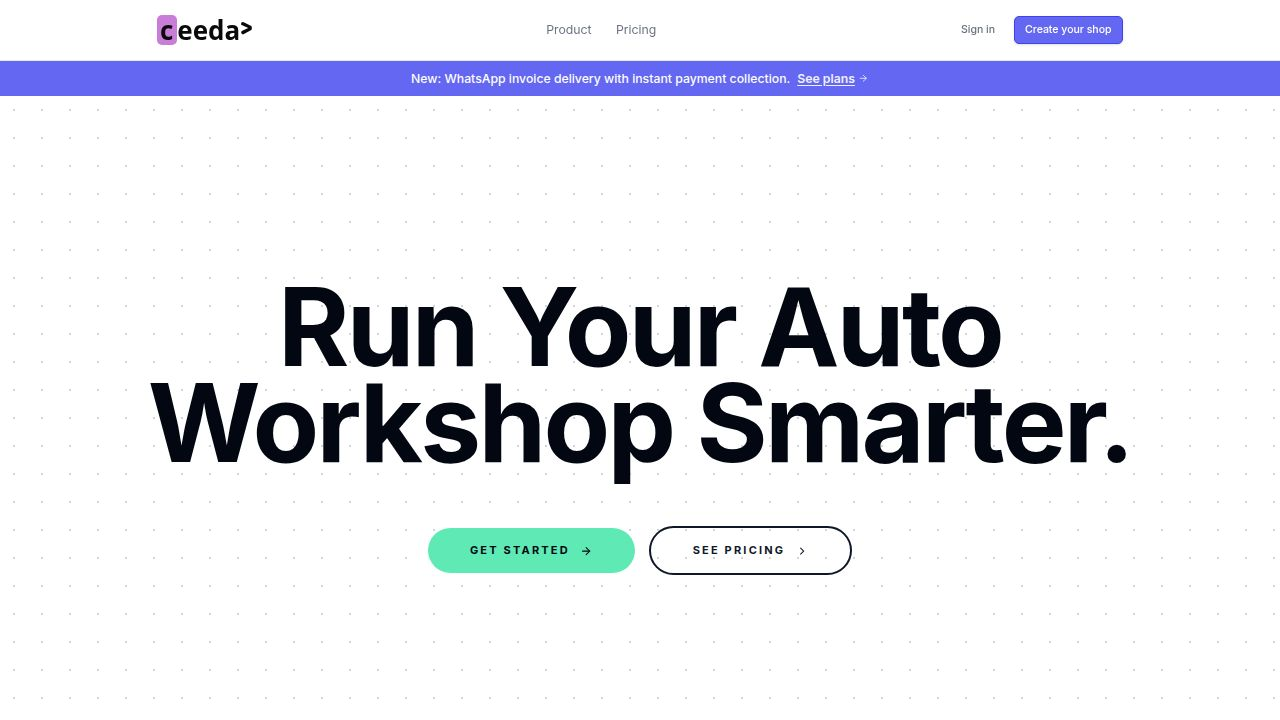
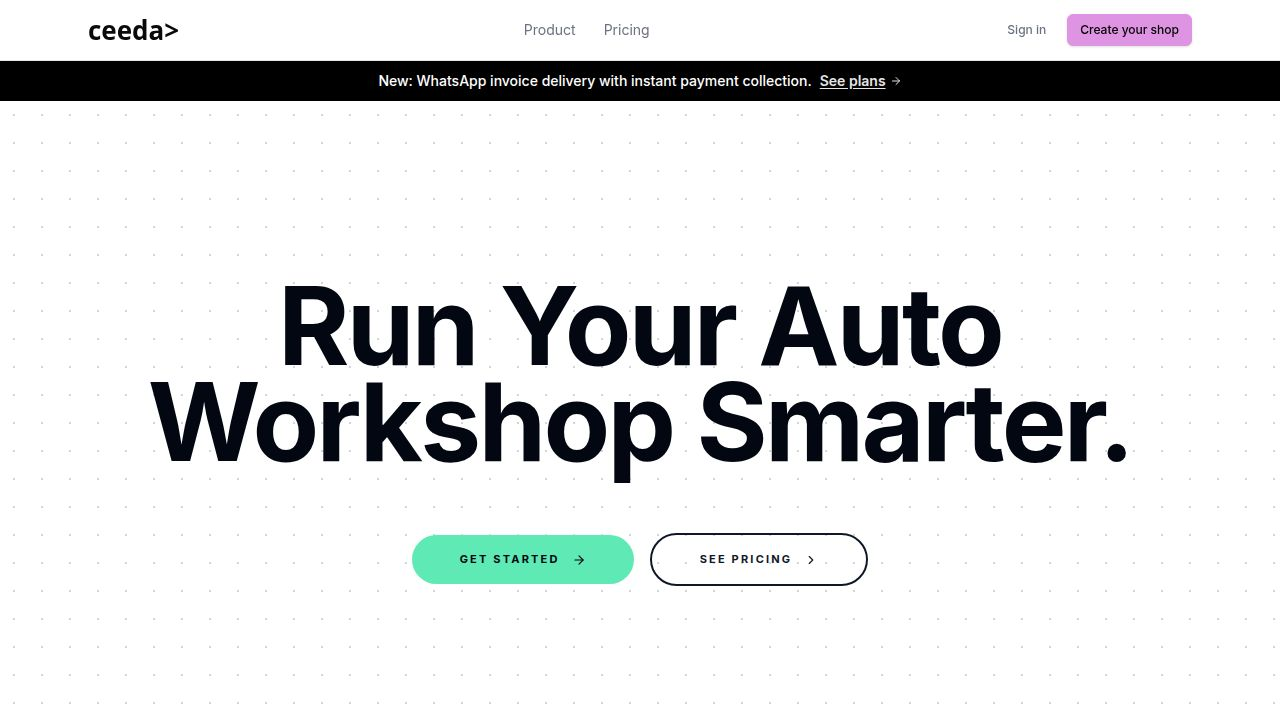
Add ability for users to cancel jobs and view cancellation details
Introduce a cancellation status for jobs, including a cancellation note field and UI elements for initiating and displaying cancellations on both the API and frontend.

Replit-Commit-Author: Agent
Replit-Commit-Session-Id: b4822e56-4291-4b2c-97be-9bfb5d0f3d70
Replit-Commit-Checkpoint-Type: full_checkpoint
Replit-Commit-Event-Id: c02d6131-0c34-4faf-a452-5d862d090419
Replit-Commit-Screenshot-Url: https://storage.googleapis.com/screenshot-production-us-central1/4fda2dd0-568b-452e-bd2f-ee95dd12a4de/b4822e56-4291-4b2c-97be-9bfb5d0f3d70/XZ1udKS
Replit-Helium-Checkpoint-Created: true

diff --git a/artifacts/web-app/src/pages/tenant/JobDetailPage.tsx b/artifacts/web-app/src/pages/tenant/JobDetailPage.tsx
@@ -18,7 +18,7 @@ import {
   Select, SelectContent, SelectItem, SelectTrigger, SelectValue,
 } from "@/components/ui/select";
 import {
-  Dialog, DialogContent, DialogHeader, DialogTitle, DialogFooter,
+  Dialog, DialogContent, DialogDescription, DialogHeader, DialogTitle, DialogFooter,
 } from "@/components/ui/dialog";
 import {
   DropdownMenu, DropdownMenuContent, DropdownMenuItem, DropdownMenuTrigger,
@@ -79,7 +79,7 @@ interface JobDetail {
   bay: string | null; started_at: string | null; completed_at: string | null; qc_at: string | null;
   mileage_in: string | null; mileage_out: string | null; scheduled_date: string | null;
   customer_concern: string | null; technician_note: string | null;
-  qc_note: string | null; internal_note: string | null;
+  qc_note: string | null; internal_note: string | null; cancellation_note: string | null;
   created_at: string; updated_at: string;
   client_id: string | null; client_name: string | null; client_phone: string | null; client_email: string | null;
   vehicle_id: string | null; plate_number: string | null; make: string | null; model: string | null;
@@ -471,6 +471,8 @@ export default function JobDetailPage({ moduleType, backPath = "/jobs", backLabe
   const [editOpen,       setEditOpen]       = useState(false);
   const [statusOpen,     setStatusOpen]     = useState(false);
   const [deleteOpen,     setDeleteOpen]     = useState(false);
+  const [cancelOpen,     setCancelOpen]     = useState(false);
+  const [cancelNote,     setCancelNote]     = useState("");
   const [assignOpen,     setAssignOpen]     = useState(false);
   const [showAddPart,       setShowAddPart]       = useState(false);
   const [showAddManualPart, setShowAddManualPart] = useState(false);
@@ -535,6 +537,24 @@ export default function JobDetailPage({ moduleType, backPath = "/jobs", backLabe
       navigate(backPath);
     },
     onError: () => toast.error("Failed to delete job"),
+  });
+
+  const cancelMutation = useMutation({
+    mutationFn: (note: string) =>
+      fetch(`${API}/api/jobs/${id}/status?tenant=${TENANT}`, {
+        method: "POST",
+        headers: { "Content-Type": "application/json" },
+        body: JSON.stringify({ status: "cancelled", cancellation_note: note || null }),
+      }).then(r => { if (!r.ok) throw new Error(); return r.json(); }),
+    onSuccess: () => {
+      qc.invalidateQueries({ queryKey: ["job", id] });
+      qc.invalidateQueries({ queryKey: ["jobs"] });
+      qc.invalidateQueries({ queryKey: ["jobs-kanban"] });
+      toast.success("Job cancelled");
+      setCancelOpen(false);
+      setCancelNote("");
+    },
+    onError: () => toast.error("Failed to cancel job"),
   });
 
   const removePartMutation = useMutation({
@@ -723,9 +743,11 @@ export default function JobDetailPage({ moduleType, backPath = "/jobs", backLabe
               </Button>
             </>
           )}
-          <Button size="sm" onClick={() => setStatusOpen(true)}>
-            Move status
-          </Button>
+          {job.status !== "cancelled" && (
+            <Button size="sm" onClick={() => setStatusOpen(true)}>
+              Move status
+            </Button>
+          )}
           <Button size="sm" variant="outline" onClick={() => setEditOpen(true)}>
             <Edit className="w-3.5 h-3.5 mr-1.5" />Edit
           </Button>
@@ -745,6 +767,14 @@ export default function JobDetailPage({ moduleType, backPath = "/jobs", backLabe
                   {createInvoiceMutation.isPending ? "Creating…" : "Create invoice"}
                 </DropdownMenuItem>
               )}
+              {job.status !== "cancelled" && (
+                <DropdownMenuItem
+                  className="text-destructive focus:text-destructive"
+                  onClick={() => { setCancelNote(""); setCancelOpen(true); }}
+                >
+                  <X className="w-3.5 h-3.5 mr-2" />Cancel job
+                </DropdownMenuItem>
+              )}
               <DropdownMenuItem className="text-destructive" onClick={() => setDeleteOpen(true)}>
                 <Trash2 className="w-3.5 h-3.5 mr-2" />Delete job
               </DropdownMenuItem>
@@ -760,6 +790,19 @@ export default function JobDetailPage({ moduleType, backPath = "/jobs", backLabe
         <StatCard icon={Camera} label="Photos" value={`${photos.length}`} />
         <StatCard icon={History} label="Status changes" value={`${statusHistory.length}`} />
       </div>
+
+      {/* Cancellation banner */}
+      {job.status === "cancelled" && (
+        <div className="rounded-lg border border-destructive/30 bg-destructive/5 px-4 py-3 flex items-start gap-3">
+          <X className="w-4 h-4 text-destructive mt-0.5 shrink-0" />
+          <div>
+            <p className="text-sm font-semibold text-destructive">Job cancelled</p>
+            {job.cancellation_note && (
+              <p className="text-sm text-muted-foreground mt-0.5 whitespace-pre-wrap">{job.cancellation_note}</p>
+            )}
+          </div>
+        </div>
+      )}
 
       <div className="grid grid-cols-1 lg:grid-cols-3 gap-5">
         {/* Left column */}
@@ -958,7 +1001,7 @@ export default function JobDetailPage({ moduleType, backPath = "/jobs", backLabe
                   <p className="text-sm leading-relaxed whitespace-pre-wrap">
                     {job.qc_note ?? <span className="text-muted-foreground/50 italic">No QC note yet</span>}
                   </p>
-                  {job.status !== "qc" && job.status !== "completed" && job.status !== "delivered" && (
+                  {job.status !== "qc" && job.status !== "completed" && job.status !== "delivered" && job.status !== "cancelled" && (
                     <Button size="sm" variant="outline" className="text-blue-700 border-blue-300" onClick={() => setStatusOpen(true)}>
                       Send to QC
                     </Button>
@@ -1361,6 +1404,38 @@ export default function JobDetailPage({ moduleType, backPath = "/jobs", backLabe
       />
 
       <AssignTechDialog jobId={job.id} open={assignOpen} onClose={() => setAssignOpen(false)} />
+
+      {/* Cancel job dialog */}
+      <Dialog open={cancelOpen} onOpenChange={setCancelOpen}>
+        <DialogContent className="sm:max-w-md">
+          <DialogHeader>
+            <DialogTitle>Cancel {job.ref}?</DialogTitle>
+            <DialogDescription>
+              The job will be marked as cancelled. You can optionally provide a reason.
+            </DialogDescription>
+          </DialogHeader>
+          <div className="space-y-2">
+            <Label htmlFor="cancel-note">Reason (optional)</Label>
+            <Textarea
+              id="cancel-note"
+              placeholder="e.g. Customer requested cancellation…"
+              value={cancelNote}
+              onChange={e => setCancelNote(e.target.value)}
+              rows={3}
+            />
+          </div>
+          <DialogFooter className="gap-2">
+            <Button variant="outline" onClick={() => setCancelOpen(false)}>Back</Button>
+            <Button
+              variant="destructive"
+              disabled={cancelMutation.isPending}
+              onClick={() => cancelMutation.mutate(cancelNote)}
+            >
+              {cancelMutation.isPending ? "Cancelling…" : "Cancel job"}
+            </Button>
+          </DialogFooter>
+        </DialogContent>
+      </Dialog>
 
       <AlertDialog open={deleteOpen} onOpenChange={setDeleteOpen}>
         <AlertDialogContent>

diff --git a/artifacts/api-server/src/routes/jobs.ts b/artifacts/api-server/src/routes/jobs.ts
@@ -17,7 +17,7 @@ async function resolveTenant(slug: string) {
   return t ?? null;
 }
 
-const VALID_STATUSES = ["waiting", "in_progress", "waiting_parts", "on_hold", "qc", "completed", "delivered"] as const;
+const VALID_STATUSES = ["waiting", "in_progress", "waiting_parts", "on_hold", "qc", "completed", "delivered", "cancelled"] as const;
 type JobStatus = typeof VALID_STATUSES[number];
 
 /* ─── GET /jobs ───────────────────────────────────────────────────────────── */
@@ -227,8 +227,9 @@ router.get("/:id", async (req, res) => {
         scheduled_date:  jobsTable.scheduled_date,
         customer_concern: jobsTable.customer_concern,
         technician_note: jobsTable.technician_note,
-        qc_note:         jobsTable.qc_note,
-        internal_note:   jobsTable.internal_note,
+        qc_note:           jobsTable.qc_note,
+        internal_note:     jobsTable.internal_note,
+        cancellation_note: jobsTable.cancellation_note,
         created_at:      jobsTable.created_at,
         updated_at:      jobsTable.updated_at,
         client_id:       jobsTable.client_id,
@@ -583,7 +584,7 @@ router.post("/:id/status", async (req, res) => {
       .limit(1);
     if (!existing) return res.status(404).json({ error: "Job not found" });
 
-    const { status, note, changed_by } = req.body as { status: JobStatus; note?: string; changed_by?: string };
+    const { status, note, changed_by, cancellation_note } = req.body as { status: JobStatus; note?: string; changed_by?: string; cancellation_note?: string };
 
     if (!VALID_STATUSES.includes(status)) {
       return res.status(400).json({ error: `Invalid status. Must be one of: ${VALID_STATUSES.join(", ")}` });
@@ -604,6 +605,9 @@ router.post("/:id/status", async (req, res) => {
     if (status === "qc") {
       updates.qc_at = now;
       if (changed_by) updates.qc_by = changed_by;
+    }
+    if (status === "cancelled") {
+      updates.cancellation_note = cancellation_note ?? null;
     }
 
     const [job] = await db

diff --git a/lib/db/src/schema/jobs.ts b/lib/db/src/schema/jobs.ts
@@ -12,7 +12,7 @@ export const quoteStatusEnum = pgEnum("quote_status", [
 ]);
 
 export const jobStatusEnum = pgEnum("job_status", [
-  "waiting", "in_progress", "waiting_parts", "on_hold", "qc", "completed", "delivered",
+  "waiting", "in_progress", "waiting_parts", "on_hold", "qc", "completed", "delivered", "cancelled",
 ]);
 
 export const jobPriorityEnum = pgEnum("job_priority", [
@@ -141,6 +141,7 @@ export const jobsTable = pgTable("jobs", {
   technician_note:       text("technician_note"),
   qc_note:               text("qc_note"),
   internal_note:         text("internal_note"),
+  cancellation_note:     text("cancellation_note"),
   source_inspection_id:  uuid("source_inspection_id"),
   // Audit
   created_at:      timestamp("created_at",    { withTimezone: true }).defaultNow().notNull(),